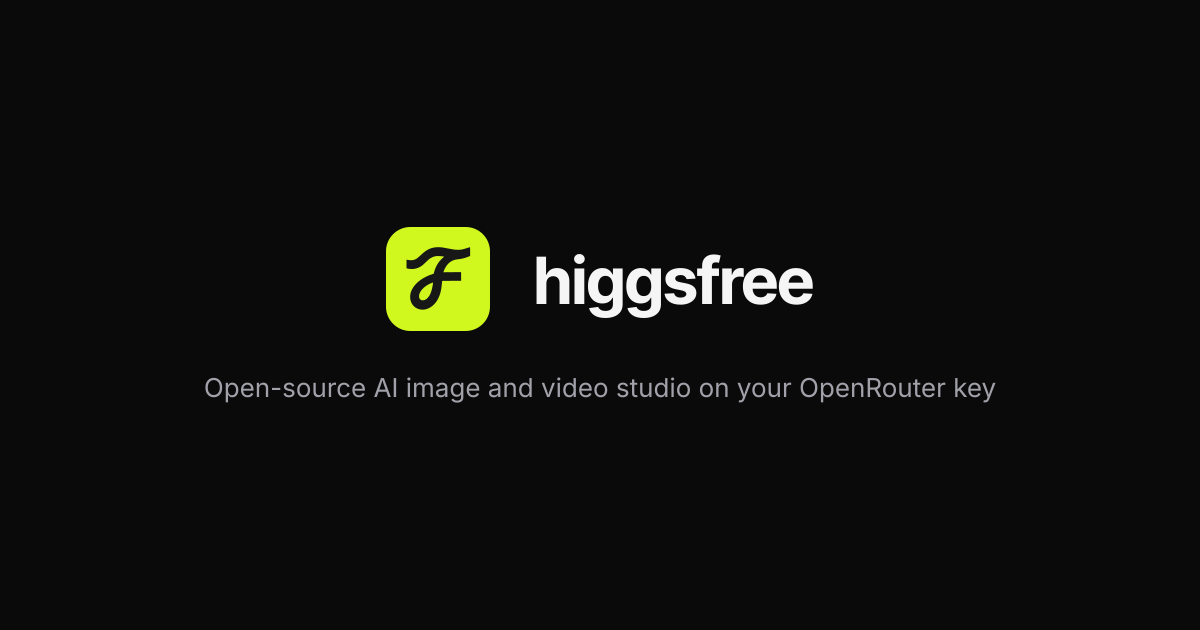
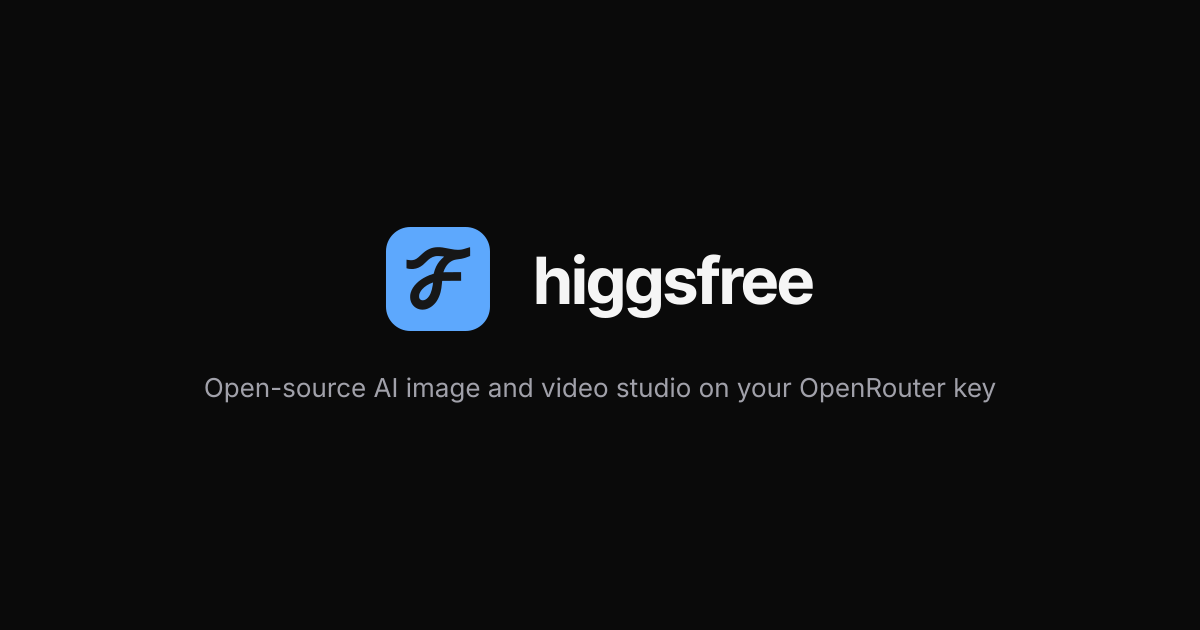
feat: blue accent and brand, swept in from lime on load
The accent is now blue #5da8fd. Each page load opens on the old lime and
sweeps to the blue over 1.6 s after a 0.5 s pause: the accent variables are
registered as colors and animated on <html>, so Generate, the active tab,
toggles, hearts, badges, focus rings and selection shift together. The path
is an OKLCH hue sweep through a soft aqua, eased in and out. The nav logo's
tile makes the same sweep from the old brand lime. Client-side navigation
keeps the blue; it also plays under reduced motion (a color fade only).

The brand follows: the mark, lockups, maskable icon and social card SVGs
use the blue tile, and the favicon, app icons and og-image are regenerated
from them. logo-source.png keeps the original lime as the tracing
reference. DESIGN.md and BRAND.md describe the accent instead of lime.

Changed region(s): [[0.3083, 0.3619, 0.4317, 0.5429]]

diff --git a/src/client/components/Logo.tsx b/src/client/components/Logo.tsx
@@ -1,14 +1,18 @@
 import { cn } from "@/lib/cn";
 
 /**
- * higgsfree mark: a looped script F, black on a lime tile. The path is the supplied artwork
+ * higgsfree mark: a looped script F, black on a blue tile. The path is the supplied artwork
  * (docs/brand/logo-source.png) traced once onto a 64-unit tile, glyph at 61 % of the tile as in the
  * original. Source of truth and usage rules: docs/brand/BRAND.md; keep it in sync with docs/brand/mark.svg.
  */
 const MARK_PATH = "M21.56 50.82C18.65 50.5 16.21 48.53 15.29 45.76C14.99 44.89 14.89 44.28 14.86 43.24C14.83 42.15 14.91 41.48 15.18 40.53C15.81 38.35 17.01 36.42 18.92 34.55C20.5 33 22.42 31.68 24.78 30.52C26.19 29.82 27.23 29.41 28.75 28.94L29.36 28.75L29.52 28.09C30.21 25.37 31.29 23.12 32.86 21.16C33.44 20.43 34.81 19.04 35.41 18.58C35.91 18.19 35.95 18.24 34.88 18.07C33.28 17.82 31.25 17.8 30.28 18.01C29.15 18.25 28.13 18.69 27.19 19.32C26.39 19.86 25.99 20.21 24.49 21.68C23.76 22.38 22.94 23.15 22.65 23.39C20.9 24.82 19.06 25.6 16.86 25.83C15.67 25.95 14 25.81 13.01 25.5L12.63 25.39L12.62 22.75C12.61 21.3 12.62 20.11 12.64 20.11C12.66 20.11 12.97 20.17 13.34 20.23C14.61 20.47 15.58 20.52 16.43 20.39C18.1 20.13 19.08 19.53 21.38 17.33C23.5 15.3 24.81 14.35 26.57 13.55C28.2 12.82 29.75 12.47 31.72 12.42C33.61 12.36 35.24 12.58 39.48 13.45C41.75 13.91 42.76 14.04 44.25 14.04C46.05 14.04 47.12 13.85 49.1 13.19C49.81 12.95 50.69 12.68 51.04 12.6C51.39 12.52 51.7 12.44 51.74 12.43C51.79 12.41 51.8 12.95 51.79 15.11L51.78 17.82L50.93 18.18C49.49 18.79 47.79 19.32 46.49 19.55C46.17 19.6 45.37 19.72 44.71 19.8C42.38 20.1 41.52 20.34 40.27 21.05C38.89 21.83 37.71 23.03 36.74 24.64C36.19 25.54 35.67 26.68 35.4 27.6L35.32 27.87L36.46 27.83C37.08 27.81 39.53 27.79 41.9 27.79L46.21 27.79L46.23 30.46L46.24 33.12L40.78 33.12C37.79 33.12 35.16 33.14 34.95 33.16L34.57 33.19L34.53 33.55C34.51 33.75 34.46 34.28 34.42 34.73C34.2 37.16 33.99 38.48 33.58 40.11C33.1 42.03 32.26 43.99 31.25 45.57C30.36 46.95 28.95 48.37 27.59 49.26C26.97 49.67 25.86 50.21 25.25 50.42C24.06 50.81 22.74 50.96 21.56 50.82ZM23.44 45.02C24.52 44.74 25.64 43.84 26.5 42.57C27.23 41.47 27.8 40.1 28.22 38.46C28.6 36.93 29.08 34.14 28.97 34.14C28.96 34.14 28.72 34.22 28.43 34.32C26.09 35.14 23.88 36.57 22.31 38.3C21.39 39.31 20.66 40.63 20.44 41.7C20.35 42.13 20.34 43.01 20.42 43.39C20.7 44.72 21.95 45.4 23.44 45.02Z";
 
-/** Sampled from the supplied artwork; the logo keeps its own colours rather than following the UI accent. */
-export const BRAND_LIME = "#d0f81e";
+/**
+ * The brand blue (the UI accent at rest) and the ink sampled from the artwork. In the app the tile reads
+ * `--color-logo`, which opens on the old brand lime and sweeps to this blue with the accent on load
+ * (globals.css); the attribute is the fallback wherever that variable is not defined.
+ */
+export const BRAND_BLUE = "#5da8fd";
 export const BRAND_INK = "#171717";
 
 export interface LogoProps {
@@ -16,7 +20,7 @@ export interface LogoProps {
   size?: number;
   /** `mark` renders the tile alone; `lockup` adds the "higgsfree" wordmark as real text. */
   variant?: "mark" | "lockup";
-  /** `accent`: the lime tile and an `fg` wordmark. `mono`: the glyph alone, everything in `currentColor`. */
+  /** `accent`: the blue tile and an `fg` wordmark. `mono`: the glyph alone, everything in `currentColor`. */
   tone?: "accent" | "mono";
   className?: string;
   /** Extra classes for the wordmark span, e.g. `hidden sm:block` to collapse it on small screens. */
@@ -39,7 +43,7 @@ export function Logo({ size = 24, variant = "mark", tone = "accent", className, 
     >
       {tone === "accent" ? (
         <>
-          <rect width="64" height="64" rx="15" fill={BRAND_LIME} />
+          <rect width="64" height="64" rx="15" fill={BRAND_BLUE} style={{ fill: `var(--color-logo, ${BRAND_BLUE})` }} />
           <path fill={BRAND_INK} fillRule="evenodd" d={MARK_PATH} />
         </>
       ) : (

diff --git a/src/app/globals.css b/src/app/globals.css
@@ -85,6 +85,50 @@
   --font-display: var(--font-inter-tight), var(--font-inter), ui-sans-serif, system-ui, -apple-system, sans-serif;
 }
 
+/* ---------- Accent on load ----------
+   The page opens on the lime accent above and then sweeps to blue (#5da8fd). The three accent
+   variables are registered as colors so they interpolate, and every `bg-accent`, `text-accent`,
+   `ring-accent/40`, the focus ring and the selection read them, so the whole UI shifts together. The
+   logo's tile makes the same sweep from the old brand lime (`--color-logo`, read by Logo.tsx).
+   The stops are an OKLCH hue sweep (lime, aqua, sky blue, chroma eased off mid-way so it never turns
+   neon) sampled at ease-in-out times, which is why the timing between them is `linear`. It runs once
+   per document: client-side navigation keeps the blue, a full load replays it. */
+@property --color-accent {
+  syntax: "<color>";
+  inherits: true;
+  initial-value: #defd5d;
+}
+@property --color-accent-hover {
+  syntax: "<color>";
+  inherits: true;
+  initial-value: #d2f24c;
+}
+@property --color-on-accent {
+  syntax: "<color>";
+  inherits: true;
+  initial-value: #141a05;
+}
+/* The logo's tile: the old brand lime until the sweep moves it to the brand blue (docs/brand/BRAND.md). */
+@property --color-logo {
+  syntax: "<color>";
+  inherits: true;
+  initial-value: #d0f81e;
+}
+
+@keyframes accent-shift {
+  0% { --color-accent: #defd5d; --color-accent-hover: #d2f24c; --color-on-accent: #141a05; --color-logo: #d0f81e; }
+  10% { --color-accent: #dcfd5f; --color-accent-hover: #d0f24f; --color-on-accent: #141a05; --color-logo: #cef826; }
+  20% { --color-accent: #d2fd6e; --color-accent-hover: #c6f25f; --color-on-accent: #121a06; --color-logo: #c3f847; }
+  30% { --color-accent: #b9fb8c; --color-accent-hover: #acf07f; --color-on-accent: #0f1b0a; --color-logo: #a7f777; }
+  40% { --color-accent: #95f2b3; --color-accent-hover: #87e7a7; --color-on-accent: #0a1b11; --color-logo: #81efaa; }
+  50% { --color-accent: #75ddd2; --color-accent-hover: #64d2c7; --color-on-accent: #061a18; --color-logo: #64dbd0; }
+  60% { --color-accent: #56c7e6; --color-accent-hover: #3fbcdd; --color-on-accent: #021920; --color-logo: #4bc6e7; }
+  70% { --color-accent: #51b7f5; --color-accent-hover: #3aabed; --color-on-accent: #011726; --color-logo: #4db6f5; }
+  80% { --color-accent: #58adfb; --color-accent-hover: #45a1f4; --color-on-accent: #03162a; --color-logo: #57acfb; }
+  90% { --color-accent: #5ca9fd; --color-accent-hover: #4a9df6; --color-on-accent: #04152b; --color-logo: #5ca9fd; }
+  100% { --color-accent: #5da8fd; --color-accent-hover: #4b9cf6; --color-on-accent: #04152b; --color-logo: #5da8fd; }
+}
+
 @keyframes shimmer {
   from { background-position: 200% 0; }
   to { background-position: -200% 0; }
@@ -93,6 +137,8 @@
 /* ---------- Base ---------- */
 @layer base {
   html {
+    /* `both`: lime through the delay, blue once it is done. */
+    animation: accent-shift 1.6s linear 0.5s both;
     color-scheme: dark;
     -webkit-text-size-adjust: 100%;
     text-size-adjust: 100%;
@@ -127,7 +173,7 @@
   ::selection {
     background-color: color-mix(in srgb, var(--color-accent) 28%, transparent);
   }
-  /* No default (blue) focus rings; a soft lime ring on keyboard focus only. */
+  /* No default (browser blue) focus rings; a soft accent ring on keyboard focus only. */
   :focus {
     outline: none;
   }
@@ -275,5 +321,9 @@
     animation-duration: 0.01ms !important;
     animation-iteration-count: 1 !important;
     transition-duration: 0.01ms !important;
+  }
+  /* The accent shift is a color fade with nothing moving: keep it rather than snap after the delay. */
+  html {
+    animation-duration: 1.6s !important;
   }
 }

diff --git a/src/client/components/layout/Nav.tsx b/src/client/components/layout/Nav.tsx
@@ -30,7 +30,7 @@ function IconBox({ children }: { children: ReactNode }) {
   return <span className="inline-flex size-4 shrink-0 items-center justify-center">{children}</span>;
 }
 
-/** "Add key" with a grey dot until a key is set (opens the key dialog); then the remaining credits with a lime dot (opens Settings). */
+/** "Add key" with a grey dot until a key is set (opens the key dialog); then the remaining credits with an accent dot (opens Settings). */
 function KeyBox() {
   const settings = useSettings((s) => s.settings);
   const credits = useSettings((s) => s.credits);
@@ -96,7 +96,7 @@ function useIndicator(activeIndex: number) {
 
 /**
  * The top bar: three floating boxes, centred. The logo (home, the Video view), the four views (the active one raised,
- * its icon in lime), and the key. Tab labels collapse to icons on phones.
+ * its icon in the accent), and the key. Tab labels collapse to icons on phones.
  */
 export function Nav() {
   const pathname = usePathname() ?? "/";

diff --git a/src/client/components/ui/Chip.tsx b/src/client/components/ui/Chip.tsx
@@ -8,7 +8,7 @@ export interface ChipProps extends ComponentProps<"button"> {
   label: ReactNode;
   chevron?: boolean;
   active?: boolean;
-  /** `accent`: the active state is a lime tint (toggles like Sound); `neutral`: a raised surface (filters, open pickers). */
+  /** `accent`: the active state is an accent tint (toggles like Sound); `neutral`: a raised surface (filters, open pickers). */
   tone?: "neutral" | "accent";
   /** Full-strength label and icon, for the one chip that names the thing (the model). Option chips are muted with a dim icon. */
   strong?: boolean;

diff --git a/src/client/components/ui/Button.tsx b/src/client/components/ui/Button.tsx
@@ -14,7 +14,7 @@ const BASE =
 
 /**
  * Not ready (`aria-disabled`, still focusable so the tooltip reason is reachable): primary rests on a
- * neutral surface until the action is possible, then turns lime; no hover while resting, and children
+ * neutral surface until the action is possible, then turns to the accent; no hover while resting, and children
  * (cost estimate, icons) inherit the muted colour. Other variants simply dim. `disabled` (loading) keeps
  * the variant colours at 50 % opacity via BASE.
  */

diff --git a/src/client/components/composer/ComposerFrame.tsx b/src/client/components/composer/ComposerFrame.tsx
@@ -71,7 +71,7 @@ export interface GenerateButtonProps {
   onClick?: () => void;
 }
 
-/** Lime pill with the shortcut badge; a neutral surface while not ready. */
+/** Accent pill with the shortcut badge; a neutral surface while not ready. */
 export function GenerateButton({ disabledReason, submitting, reasonId, onClick }: GenerateButtonProps) {
   const notReady = Boolean(disabledReason);
   return (

diff --git a/docs/DESIGN.md b/docs/DESIGN.md
@@ -1,7 +1,8 @@
 # higgsfree design spec
 
 Derived from a live walkthrough of higgsfield.ai (Aug 2026). The goal is a faithful, *professional-minimal* interpretation:
-Vercel/Linear dark discipline with Higgsfield's single lime accent. No neon, no glows, no gamer aesthetics.
+Vercel/Linear dark discipline with a single accent: blue `#5da8fd`, which each page load reaches from Higgsfield's lime.
+No neon, no glows, no gamer aesthetics.
 
 ## Tokens (Tailwind v4 `@theme` in `src/app/globals.css`)
 ```
@@ -18,9 +19,9 @@ Vercel/Linear dark discipline with Higgsfield's single lime accent. No neon, no 
 --color-fg-subtle:  #888e90   tertiary text: placeholders, sublines, inactive nav icons (6.4:1 on bg, 4.6:1 on surface-2)
 --color-fg-disabled: #7e8486  not-ready Generate, the "no key" dot
 --color-fg-faint:   #676c6e   decorative only: option-chip icons, dividers, dashed borders (never text)
---color-accent:     #defd5d   lime: Generate, the active tab's icon, the Sound toggle, the kept heart, NEW badge
---color-accent-hover: #d2f24c
---color-on-accent:  #141a05
+--color-accent:     #defd5d → #5da8fd   lime at load, then blue (Accent on load): Generate, the active tab's icon, the Sound toggle, the kept heart, NEW badge
+--color-accent-hover: #d2f24c → #4b9cf6
+--color-on-accent:  #141a05 → #04152b
 --color-danger:     #f87171
 --color-warning:    #fbbf24   amber: the composer's provider notice (a model whose provider has no key)
 --color-success:    #4ade80
@@ -48,19 +49,20 @@ values or Tailwind's default scale. Nested surfaces stay concentric: inner radiu
 The global `:focus-visible` outline follows each element's own radius; nothing may set a radius on focus.
 The chrome (nav, composer, dialogs) is one lifted grey (`surface`), and everything on it steps up ~8 RGB points per
 layer (27 → 35 → 44) so chips read as raised on the bar and the selected row as raised in a popover. Quiet cards
-on the page itself (`panel`) are barely lifted. Lime is reserved for Generate, the active tab's icon, an on toggle,
-the kept heart and the NEW badge. The logo keeps its own lime (`#d0f81e`, docs/brand/BRAND.md); the UI does not use it.
+on the page itself (`panel`) are barely lifted. The accent is reserved for Generate, the active tab's icon, an on toggle,
+the kept heart and the NEW badge. The logo's tile is the same blue (`#5da8fd`, docs/brand/BRAND.md); on load it sweeps
+there from the old brand lime (`#d0f81e`) with the accent.
 
 Rules that follow from the tokens:
 - **Not-ready Generate.** A primary button that is `aria-disabled` (empty prompt, no key) rests on `surface-2` with
-  `fg-subtle` text and a `border-strong` edge and ignores hover; it turns lime only once the action is possible.
-  `disabled` (loading) keeps the lime at 50 % opacity. Never show a half-transparent lime button as a resting state.
-  Generate carries the shortcut as a badge (`⌘↵`, `Ctrl↵` elsewhere) on a slightly darker lime.
-- **Toggles.** An on toggle chip (Sound) is a lime tint: `border-accent/45`, `bg-accent/15`, lime text and icon.
+  `fg-subtle` text and a `border-strong` edge and ignores hover; it turns to the accent only once the action is possible.
+  `disabled` (loading) keeps the accent at 50 % opacity. Never show a half-transparent accent button as a resting state.
+  Generate carries the shortcut as a badge (`⌘↵`, `Ctrl↵` elsewhere) on a slightly darker accent.
+- **Toggles.** An on toggle chip (Sound) is an accent tint: `border-accent/45`, `bg-accent/15`, accent text and icon.
 - **Card badges.** Completed media cards have no border (edge-to-edge media, `rounded-lg`); the hover overlay shows
   one truncating info badge, `"{model} · {params} · {cost}"`, plus an audio glyph badge, never a wrapping row of
   tags. Pending and failed cards keep their border. In mixed lists the Image / Video type badge sits top-left.
-- **NEW badge.** Solid lime (`bg-accent text-on-accent`), 16 px, 10 px bold uppercase, 4 px radius. PRO / FAST /
+- **NEW badge.** Solid accent (`bg-accent text-on-accent`), 16 px, 10 px bold uppercase, 4 px radius. PRO / FAST /
   BETA stay neutral on `surface-3`.
 
 Fonts: `Inter` for UI (Google Fonts, `font-feature-settings: "cv11","ss01"`), `Inter Tight` 800 for display headings
@@ -101,9 +103,9 @@ There is no page chrome: the app is four views under one floating nav, with one 
     4 px padded box. Labels 13 px medium, `-0.01em`. Icons sit in a 16 px box with 1.5 px strokes, sized to match the
     mock (14 px frames, a 12 px heart); the video frame, the tray and the key are drawn in `components/icons/nav.tsx`.
     Inactive: `fg-muted` label, `fg-subtle` icon. Active: raised (`surface-2`, `border-strong`, `shadow-raised`),
-    `fg` label, lime icon. Below `sm` (640 px) the labels collapse to icons.
+    `fg` label, accent icon. Below `sm` (640 px) the labels collapse to icons.
   - **Key box**: key icon, "Add key", 6 px dot (`fg-disabled`) until a key is set (opens the key dialog); then the
-    remaining credits (`$12.34`) and a lime dot (opens Settings on the OpenRouter section).
+    remaining credits (`$12.34`) and an accent dot (opens Settings on the OpenRouter section).
 - **Content**: max-width 1400 px, 24 px page padding, 72 px top padding to clear the nav, bottom padding equal to the
   composer's measured height (`--composer-h`) + 16 px.
 - **Composer**: fixed bottom centre, `max-w-[940px]`, `rounded-dock` (24), `surface`, `border`, `shadow-float`, 13 px
@@ -132,7 +134,7 @@ There is no page chrome: the app is four views under one floating nav, with one 
 - Feed: masonry grid (`minmax(260px, 1fr)` from `sm`, 160 below) newest first, each card at its real ratio.
   Pending cards show a shimmer skeleton with model name + elapsed timer. Failed cards show the provider error verbatim
   with Retry. Hover overlay: Keep (heart) · Download · Animate (→ Video with this image as first frame) · Reuse prompt
-  · Delete, plus one truncating info badge `"{model} · {params} · {cost}"`. A kept card shows a small lime heart badge.
+  · Delete, plus one truncating info badge `"{model} · {params} · {cost}"`. A kept card shows a small accent heart badge.
 - Composer chips: [⟨provider mark⟩ Nano Banana Pro ˅] [▭ 1:1] [◇ 1K] [− 1/4 +]. `+` adds reference images (up to the
   largest count any model takes; the picker dims models that cannot take what is attached).
 
@@ -142,7 +144,7 @@ There is no page chrome: the app is four views under one floating nav, with one 
   + cost in the badge, a "N rendering · usually 2–5 min" line above while clips render.
 - Composer chips: [⟨mark⟩ Seedance 2.5 ˅] [▭ 16:9] [⏱ 5s] [◇ 720p] [⫶ Sound] [− 1/4 +]. Duration opens a stepper +
   slider (ranges) or a list (fixed options) limited to the model's values; aspect ratio locks to the first frame for
-  models that drop it on i2v; resolution is a list with per-option estimates; Sound is a lime toggle shown only for
+  models that drop it on i2v; resolution is a list with per-option estimates; Sound is an accent toggle shown only for
   models with native audio; the count runs that many independent jobs. `+` opens a small menu: first frame, last
   frame (models with `caps.lastFrame`), style reference (unless the model rejects references). Dropped or pasted
   images fill those slots in that order. Image-to-video is implicit: a frame attached is the mode.
@@ -169,13 +171,13 @@ There is no page chrome: the app is four views under one floating nav, with one 
   Clicking one opens the folder at `?folder=<id>` (so Back returns to All): a header with ← All, the name, the count,
   Rename and Delete, then only that folder's runs, paged on their own. A run is in at most one folder, and All always
   shows every kept run. Deleting a folder never deletes runs: they stay kept, in All.
-- **Drag and drop.** In All, every card can be dragged onto a tile. While a drag is on, the tiles get a dashed lime
-  edge and the one under the pointer a lime ring; dropping files the run there ("Moved to Travel") and makes that
+- **Drag and drop.** In All, every card can be dragged onto a tile. While a drag is on, the tiles get a dashed accent
+  edge and the one under the pointer an accent ring; dropping files the run there ("Moved to Travel") and makes that
   folder the heart's default.
 - **The heart** (cards and the lightbox) keeps a run in one click, in the last destination picked (a folder, or All),
   and opens a small menu anchored to it: "Kept in Travel", a list (All, then the folders, the current one checked),
   New folder… (an inline field) and Remove from Favorites. On a kept run the heart opens the same menu, to move or
-  remove it. A kept card's lime heart badge carries the folder's name.
+  remove it. A kept card's accent heart badge carries the folder's name.
 
 ## Key dialog and Settings
 - **Key dialog** (`KeyDialog`, 400 px, `rounded-panel`, 20 px padding): one provider. "Add your OpenRouter key" /
@@ -200,7 +202,7 @@ There is no page chrome: the app is four views under one floating nav, with one 
   · fal (`surface-2` track, `rounded-control`, 4 px padding; 32 px options at `rounded-tag`, the selected one on
   `surface-3` with `fg` text; radio semantics, arrow keys move and select). OpenRouter by default; disabled, with a
   hint saying so, until both keys are saved.
-- **Library card**: a usage line ("Using 1.2 GB of 60 GB the browser allows") over a thin bar (lime, `danger` from
+- **Library card**: a usage line ("Using 1.2 GB of 60 GB the browser allows") over a thin bar (accent, `danger` from
   90 %), then two tiles, Images and Videos (count · size, files), with a reference-images line under them. Below a
   divider, "Protected from eviction" with a Yes / Not yet badge and a Protect button while it is not (Safari gets a
   note about the 7-day eviction). Then Backup: Export library… / Import… side by side; while an archive is written or
@@ -209,5 +211,10 @@ There is no page chrome: the app is four views under one floating nav, with one 
 
 ## Motion & polish
 - 150ms ease-out transitions for hover/active; popovers fade+scale 4%. Skeleton shimmer 1.6s.
+- **Accent on load.** Every page load opens on the lime accent and, after 0.5 s, sweeps it to blue (`#5da8fd`) over
+  1.6 s: an OKLCH hue sweep through a soft aqua, eased in and out, applied to the three accent variables on `html`
+  (`accent-shift` in `globals.css`), so every accent element shifts together. Client-side navigation keeps the blue.
+  It also runs under reduced motion (a color fade, nothing moves). The nav logo's tile makes the same sweep, from the
+  old brand lime (`#d0f81e`) to the brand blue, through `--color-logo`; the glyph stays ink.
 - Toasts (sonner, top-right so the fixed prompt bar never covers them, dark). Focus rings `ring-2 ring-accent/60`. All icon buttons have `aria-label`.
 - Mobile: nav collapses to icons; video panel stacks above the canvas; prompt bar goes full-width.

diff --git a/docs/brand/BRAND.md b/docs/brand/BRAND.md
@@ -1,15 +1,15 @@
 # higgsfree brand
 
-The identity is one mark, one wordmark and the lime. Everything in this folder is the source of
+The identity is one mark, one wordmark and the blue. Everything in this folder is the source of
 truth; `src/client/components/Logo.tsx` and the icons in `public/` are derived from it.
 
 ## The mark
 
-A **looped script F**, black on a lime tile. The top stroke is a soft wave, the stem drops into
+A **looped script F**, black on a blue tile. The top stroke is a soft wave, the stem drops into
 a closed loop at the bottom left, and a straight crossbar cuts to the right. It is the F of
 "free", drawn by hand rather than set in a font.
 
-`logo-source.png` is the original artwork (1254 x 1254). Every other file was traced from it once
+`logo-source.png` is the original artwork (1254 x 1254, on the old lime tile). Every other file was traced from it once
 into a single vector path, which matches the original to 99.7 % of its pixels. Use the vectors;
 never trace or redraw the glyph again.
 
@@ -27,7 +27,7 @@ never trace or redraw the glyph again.
 | File | Use |
 |---|---|
 | `logo-source.png` | The original artwork, kept as the reference. Not for use in the product |
-| `mark.svg` | The logo: black F on the rounded lime tile. App icon, avatar, nav |
+| `mark.svg` | The logo: black F on the rounded blue tile. App icon, avatar, nav |
 | `mark-square.svg` | The same on a square full-bleed tile, exactly as supplied |
 | `mark-mono.svg` | The F alone in `currentColor`, body at 75 % of the 64 box, for single-colour use |
 | `lockup.svg` | Tile + wordmark (`#f5f5f5`) on transparent, for dark surfaces |
@@ -58,11 +58,14 @@ all-caps display headings (`text-display`), where it is set in caps with the res
 
 ## Colour
 
-- Lime `#d0f81e` and ink `#171717`, both sampled from the artwork. The logo keeps these exact
-  values; it does not follow the UI accent (`#d4f53c`, docs/DESIGN.md), which is close but not
-  the same colour.
+- Blue `#5da8fd` and ink `#171717`. The blue is the UI accent at rest (docs/DESIGN.md); the ink is
+  sampled from the artwork and reads at 7.2:1 on the blue. Every file here, the favicon, the PWA
+  icons and the social card use exactly these values.
+- The artwork's original lime `#d0f81e` is retired. It survives in `logo-source.png` and in one
+  place in the product: on each page load the nav tile opens on it and sweeps to the blue with the
+  UI accent ("Accent on load" in docs/DESIGN.md). The glyph stays ink throughout.
 - On dark (`#0a0a0a` to `#25252b`): the tile as is, wordmark `#f5f5f5`.
-- On light: the tile as is, wordmark `#171717`. Never a lime glyph or lime wordmark on white.
+- On light: the tile as is, wordmark `#171717`. Never a blue glyph or blue wordmark on white.
 - Monochrome (print, embossing, odd tab bars): `mark-mono.svg` in any single colour.
 
 ## Favicon and app icons (`public/`)
@@ -90,8 +93,10 @@ rsvg-convert -w 1200 -h 630 docs/brand/og-image.svg      -o public/og-image.png
 
 ## Do not
 
-- Recolour the tile or the glyph, or swap their colours (no lime F on black tile).
-- Add a gradient, glow, shadow, outline, bevel or rotation. Do not animate it in the product.
+- Recolour the tile or the glyph, or swap their colours (no blue F on black tile). The nav tile's
+  load sweep above is the only exception.
+- Add a gradient, glow, shadow, outline, bevel or rotation. Do not animate it in the product
+  beyond that colour sweep.
 - Stretch it, re-trace it, thin or thicken the stroke, or close or open the loop.
 - Set the wordmark in another face, weight or case, or split its colours.
 - Use the F as a letter in running text or as a generic icon (button, badge, status).

diff --git a/README.md b/README.md
@@ -127,7 +127,7 @@ Docs: [OpenRouter integration](docs/OPENROUTER.md), [fal integration](docs/FAL.m
 
 ## Brand assets
 
-The mark (a looped script F, black on a lime tile), the lockups and the app icons live in
+The mark (a looped script F, black on a blue tile), the lockups and the app icons live in
 [docs/brand/](docs/brand/), traced from the original artwork in `docs/brand/logo-source.png`. Sizes,
 clear space and colour rules are in [docs/brand/BRAND.md](docs/brand/BRAND.md). Use the files as
 they are: no recolouring, no effects, no stretching.
